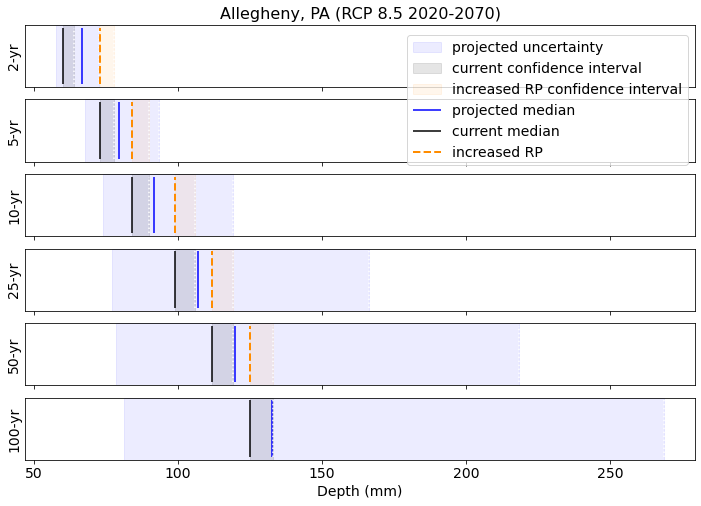
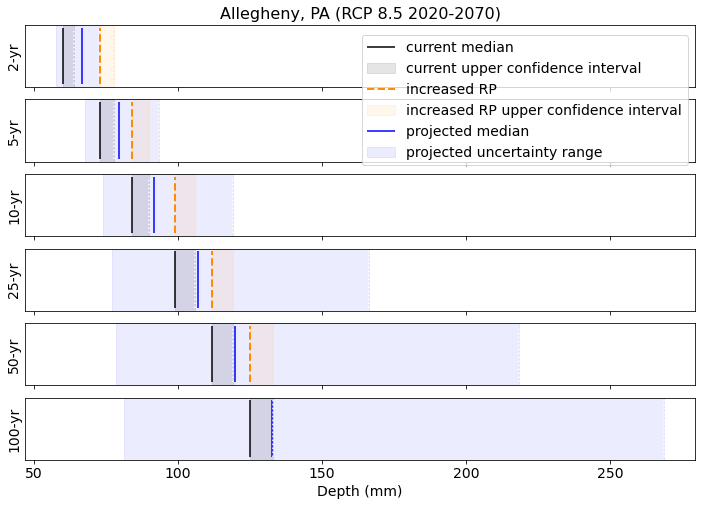
Updated .py code & output for individual counties
Changes to atlas median code to ensure that the figures/legends are more clear

Changed region(s): [[0.5093, 0.0593, 0.9886, 0.3261]]

diff --git a/IDFcurves_atlasmedian.py b/IDFcurves_atlasmedian.py
@@ -363,13 +363,13 @@ for c in range(len(county_centroids)):
             fig, axs = plt.subplots(6, 1, figsize = (12, 8), sharex = True)
             for i in range(len(cf_2)):
                 #axs[i].vlines(output_min[o][i], 0, 1, color = 'white', linestyle = "dotted")
-                axs[i].vlines(output[o][i], 0, 1, color = col, label = "projected median")
+                h1 = axs[i].vlines(output[o][i], 0, 1, color = col, label = "projected median")
                 axs[i].vlines(output_max[o][i], 0, 1, color = 'white', linestyle = "dotted")
                 #axs[i].vlines(atlas_lower[i], 0, 1, color = 'white', linestyle = "dotted")
-                axs[i].vlines(atlas_median[i], 0, 1, "k", label = "current median")
+                h2 = axs[i].vlines(atlas_median[i], 0, 1, "k", label = "current median")
                 axs[i].vlines(atlas_upper[i], 0, 1, color = 'white', linestyle = "dotted")
-                axs[i].axvspan(output_min[o][i], output_max[o][i], color = col, alpha = 0.075, label = "projected uncertainty")
-                axs[i].axvspan(atlas_median[i], atlas_upper[i], color = "k", alpha = 0.1, label = "current confidence interval")
+                h3 = axs[i].axvspan(output_min[o][i], output_max[o][i], color = col, alpha = 0.075, label = "projected uncertainty range")
+                h4 = axs[i].axvspan(atlas_median[i], atlas_upper[i], color = "k", alpha = 0.1, label = "current upper confidence interval")
                 axs[i].set_ylabel(RP_list[i], fontsize = 14)
                 axs[i].tick_params(
                     axis='y',          # changes apply to the x-axis
@@ -381,16 +381,22 @@ for c in range(len(county_centroids)):
                     axis = 'x',
                     labelsize = 14)
                 if i < 5:
-                    axs[i].vlines(atlas_median[i+1], 0, 1, color = "darkorange", lw = 2, linestyle = "dashed", label = "increased RP")
-                    #include the CI #TODO
+                    h5 = axs[i].vlines(atlas_median[i+1], 0, 1, color = "darkorange", lw = 2, linestyle = "dashed", label = "increased RP")
                     #axs[i].vlines(atlas_lower[i+1], 0, 1, color = 'white', linestyle = "dotted")
-                    axs[i].vlines(atlas_upper[i+1], 0, 1, color = 'white', linestyle = "dotted")
-                    axs[i].axvspan(atlas_median[i+1], atlas_upper[i+1], color = "darkorange", alpha = 0.075, label = "increased RP confidence interval")
+                    axs[i].vlines(atlas_upper[i+1], 0, 1, color = 'bisque', linestyle = "dotted") #instead of white
+                    h6 = axs[i].axvspan(atlas_median[i+1], atlas_upper[i+1], color = "darkorange", alpha = 0.075, label = "increased RP upper confidence interval")
             plt.xlabel("Depth (mm)", fontsize = 14)
-            axs[1].legend(fontsize = 14, bbox_to_anchor=(1, 2.15))
+            #axs[1].legend(fontsize = 14, bbox_to_anchor=(1, 2.15))
+            #handles, labels = plt.gca().get_legend_handles_labels()
+            handles = [h2, h4, h5, h6, h1, h3]
+            labels = ["current median", "current upper confidence interval", "increased RP", "increased RP upper confidence interval", "projected median", "projected uncertainty range"]
+            order = [0, 1, 2, 3, 4, 5]
+            axs[1].legend([handles[idx] for idx in order],[labels[idx] for idx in order],
+                          fontsize = 14, bbox_to_anchor=(1, 2.15))
             #plt.ylabel("Probability distrbution from available future simulations")
             titlestring = "RCP " + RCP[o][3] + "." + RCP[o][4] + " " + RCP[o][-9:] #e.g. rcp45_2020-2070
             axs[0].set_title(grid_test[:-3] + ", " + grid_test[-2:] + " (" + titlestring + ")", fontsize = 16)
+            #plt.savefig(path_to_save_graphs + r"ridgeline_like_plots/" + grid_test + "_" + RCP[o] + ".png", bbox_inches = "tight")
             plt.savefig(path_to_save_graphs + r"plotsforeachscenario/" + grid_test + "_" + RCP[o] + ".png", bbox_inches = "tight")
             plt.close()
 
